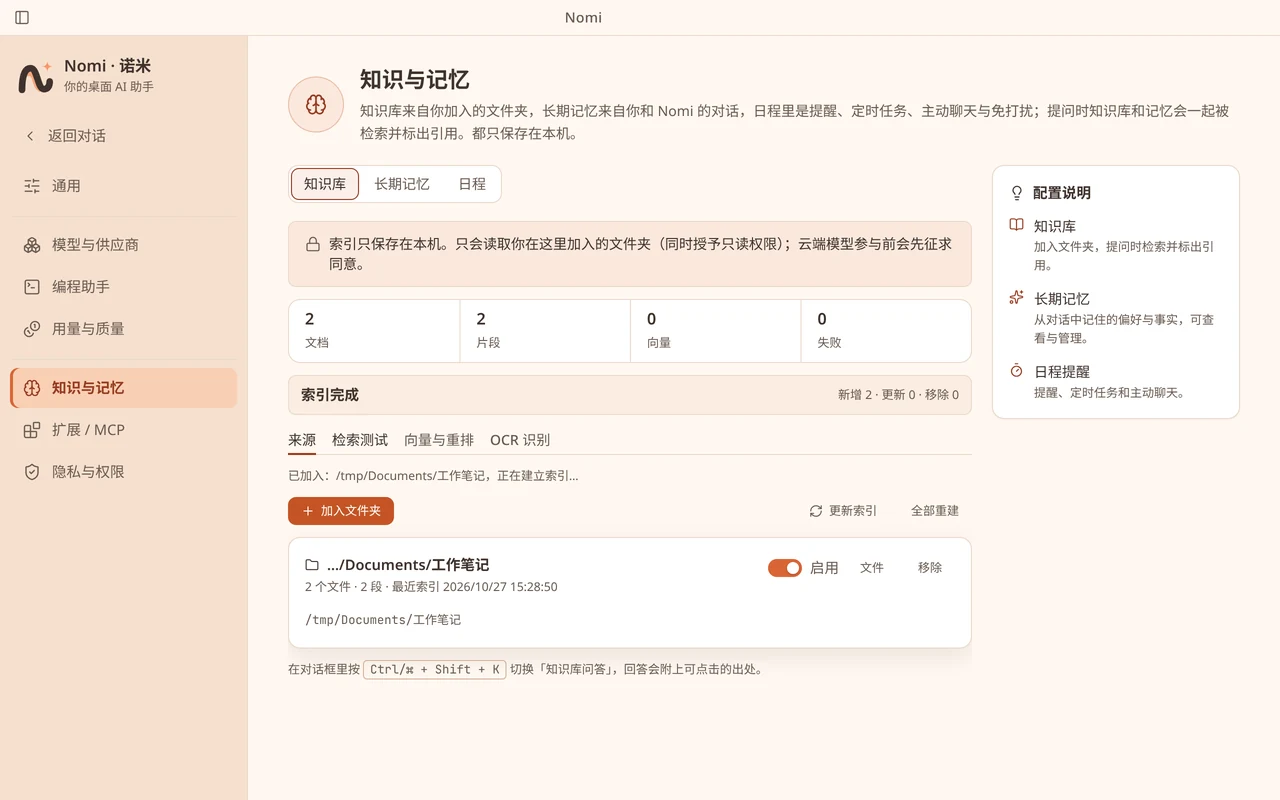
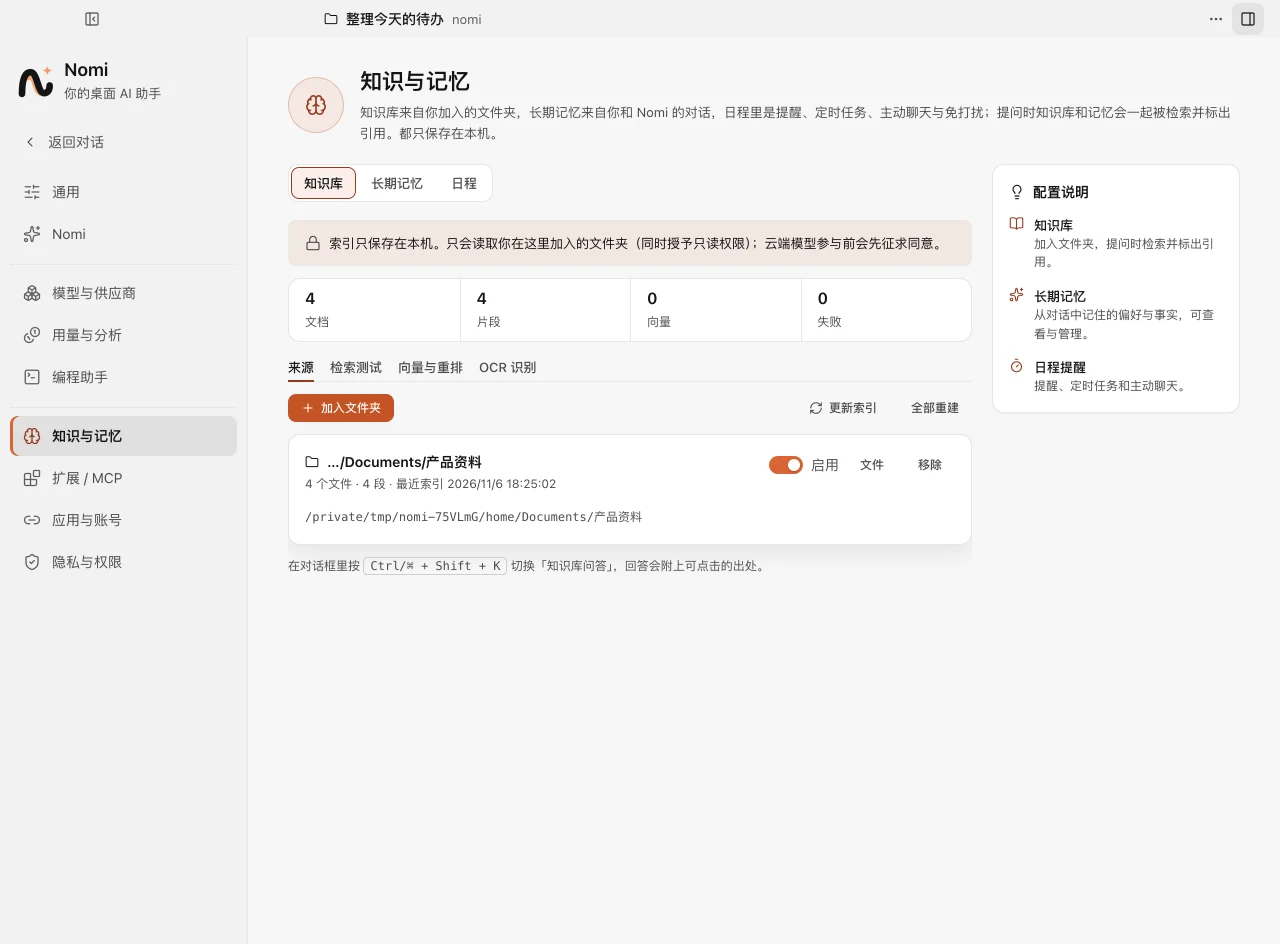
docs: retake README screenshots for the new sidebar and layout
Site screenshot scenes follow the new UI: the Nomi Companion / Workshop menu, the rail's Chats
button, the endpoint menu popover and endpoint buttons; the mock model now answers title requests
with short titles. The workspace shot replaces v1.2.0-workspace.webp.

diff --git a/README.en.md b/README.en.md
@@ -29,7 +29,7 @@
 
 <p align="center">
   <img src="docs/screenshots/chat.webp" alt="Chatting with Nomi" width="44%">
-  <img src="docs/screenshots/v1.2.0-workspace.webp" alt="Three-column coding workspace" width="54%">
+  <img src="docs/screenshots/workspace.webp" alt="Three-column coding workspace" width="54%">
 </p>
 
 ## Why Nomi
@@ -79,7 +79,7 @@ Sizes are measured from the v2.1.2 arm64 installers of both builds; memory, CPU 
 ```mermaid
 flowchart LR
   subgraph View["View (React 19)"]
-    Chat["Chat / coding workspace"]
+    Chat["Chat (Companion / Workshop)"]
     Mascot["Desktop character"]
   end
   subgraph Core["Core (Go)"]

diff --git a/docs/features/coding-agents.md b/docs/features/coding-agents.md
@@ -1,6 +1,6 @@
 # 编程助手
 
-![三栏工作区](../screenshots/v1.2.0-workspace.webp)
+![三栏工作区](../screenshots/workspace.webp)
 
 > 截图由模拟的 CLI 驱动真实界面生成，对话内容与路径仅作演示。
 
